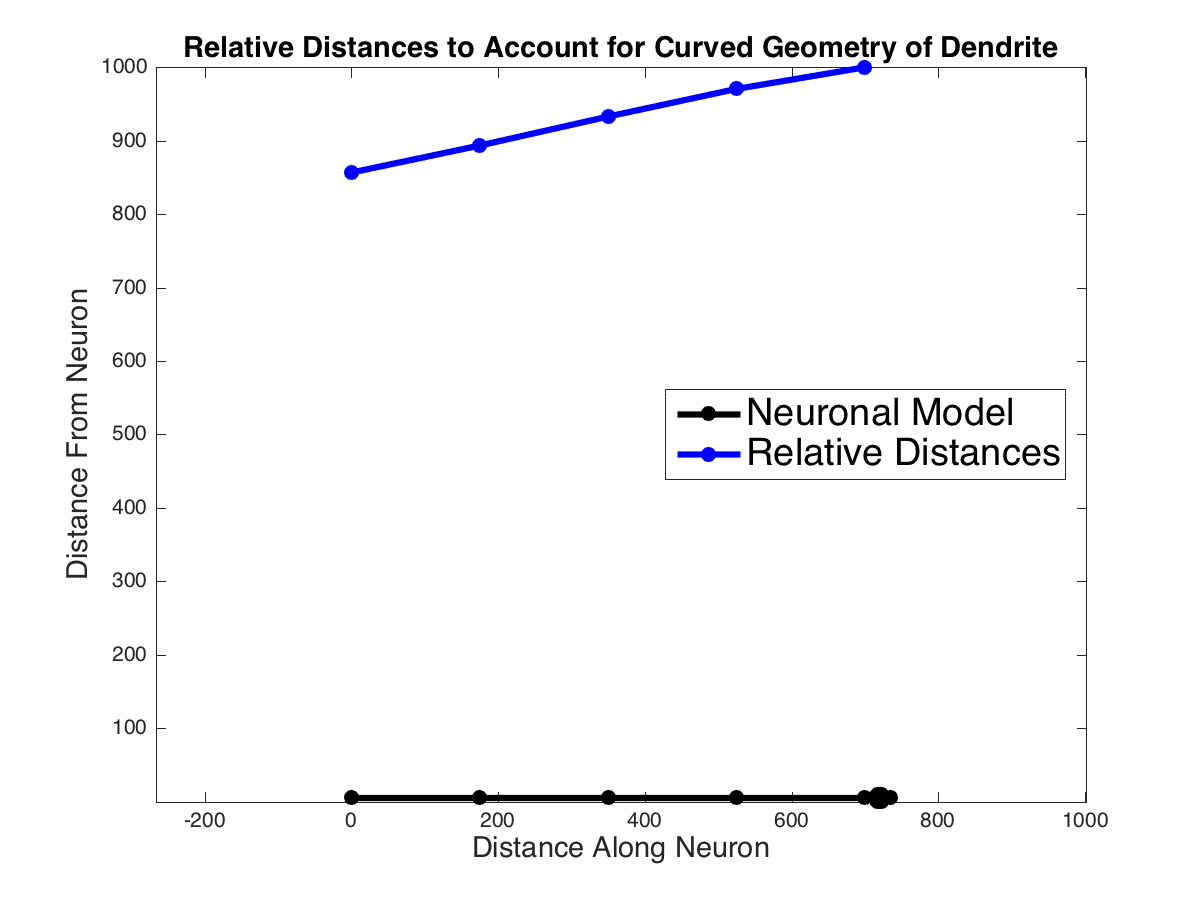
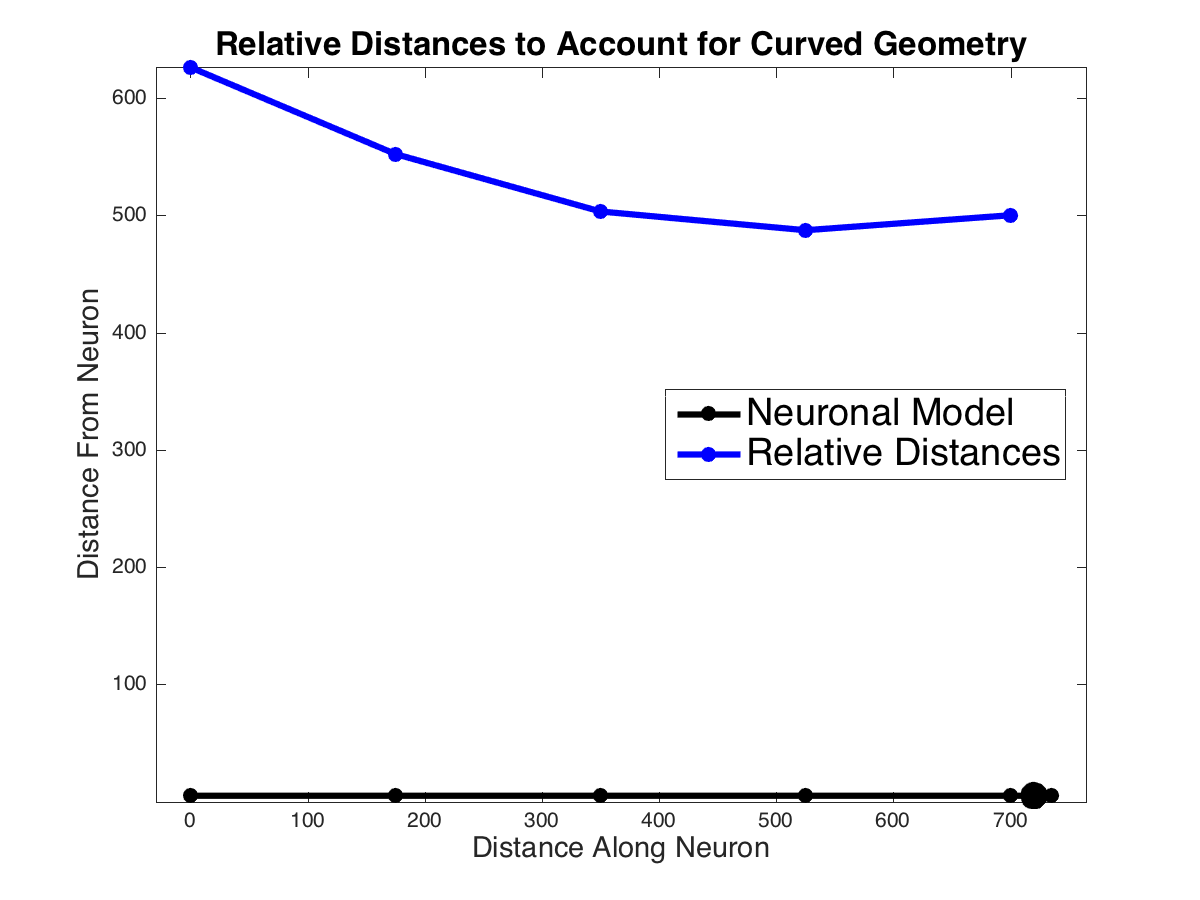
Code at time of submission

diff --git a/plots.m b/plots.m
@@ -1,10 +1,9 @@
-%% Matlab plots for threshold data
+%% MATLAB plots for threshold data
 % Authors: Lauren Heckelman, Matthew McCann, and Michelle Mueller
 
 %% initialize workspace
 clear; clc; clf; close all;
 num_nodes = 27;
-
 
 %% Relative Distances
     % Draw Soma and Dendrite:
@@ -15,106 +14,132 @@ num_nodes = 27;
     SomaINL = 50;
     SomaLeftAndRight = abs(SomaINL - SomaDiameter)/2;
     
-    Dendrite_xvalues = 0:DendriteLength:(DendriteLength*(DendriteNodes - 1));
+    Dendrite_xvalues = 0:DendriteLength:(DendriteLength*(DendriteNodes ...
+                       - 1));
     Dendrite_yvalues = (SomaDiameter/2).*ones(1, length(Dendrite_xvalues));
     
     SomaCircle_ang = 0:0.01:2*pi+0.01;
     SomaCircle_xp = (SomaDiameter/2)*cos(SomaCircle_ang);
     SomaCircle_yp = (SomaDiameter/2)*sin(SomaCircle_ang);
     
-    SomaCircle_xvalues = max(Dendrite_xvalues) + SomaLeftAndRight + SomaCircle_xp;
+    SomaCircle_xvalues = max(Dendrite_xvalues) + SomaLeftAndRight + ...
+                         SomaCircle_xp;
     SomaCircle_yvalues = (SomaDiameter/2) + SomaCircle_yp;
     
     SomaINL_xvaluesLeft = [max(Dendrite_xvalues), min(SomaCircle_xvalues)];
-    SomaINL_xvaluesRight = [max(SomaCircle_xvalues), max(SomaCircle_xvalues + SomaDiameter)];
-    SomaINL_yvaluesLeft = (SomaDiameter/2).*ones(1, length(SomaINL_xvaluesLeft));
-    SomaINL_yvaluesRight = (SomaDiameter/2).*ones(1, length(SomaINL_xvaluesRight));
+    SomaINL_xvaluesRight = [max(SomaCircle_xvalues), ...
+                            max(SomaCircle_xvalues + SomaDiameter)];
+    SomaINL_yvaluesLeft = (SomaDiameter/2).*ones(1, ...
+                           length(SomaINL_xvaluesLeft));
+    SomaINL_yvaluesRight = (SomaDiameter/2).*ones(1, ...
+                            length(SomaINL_xvaluesRight));
     
     Model_xvalues = horzcat(Dendrite_xvalues, SomaINL_xvaluesLeft, ...
                     SomaCircle_xvalues, SomaINL_xvaluesRight);
     Model_yvalues = horzcat(Dendrite_yvalues, SomaINL_yvaluesLeft, ...
                     SomaCircle_yvalues, SomaINL_yvaluesRight);
-
+                
     % Draw Distance to Electrode Curve:
-        angle = 15;
-        DistanceToElectrode = 1000; % [um]
-        Distance_xvalues = zeros(1, DendriteNodes);
-        Distance_yvalues = zeros(1, DendriteNodes);
-
-        for n = 1:DendriteNodes
-            if n == 1
-                Distance_xvalues(n) = 0;
-            else
-                Distance_xvalues(n) = Distance_xvalues(n-1) + (DendriteLength*cosd(angle*(DendriteNodes-n)));
-            end
+    angle = 15;
+    DistanceToElectrode = 1000; % [um]
+    Distance_xvalues = zeros(1, DendriteNodes);
+    Distance_yvalues = zeros(1, DendriteNodes);
+    
+    for n = 1:DendriteNodes
+        if n == 1
+            Distance_xvalues(n) = 0;
+        else
+            Distance_xvalues(n) = Distance_xvalues(n-1) + ...
+                (DendriteLength*cosd(angle*(DendriteNodes-n)));
         end
-
-        for n = 1:DendriteNodes
-            if n == 1
-                Distance_yvalues(n) = DendriteLength*(sind(angle*(DendriteNodes-1)) + sind(angle*(DendriteNodes-2)) + sind(angle*(DendriteNodes-3)) + sind(angle*(DendriteNodes-4)) + sind(angle*(DendriteNodes-5)));
-            end
-            if n == 2
-                Distance_yvalues(n) = DendriteLength*(sind(angle*(DendriteNodes-2)) + sind(angle*(DendriteNodes-3)) + sind(angle*(DendriteNodes-4)) + sind(angle*(DendriteNodes-5)));
-            end
-            if n == 3
-                Distance_yvalues(n) = DendriteLength*(sind(angle*(DendriteNodes-3)) + sind(angle*(DendriteNodes-4)) + sind(angle*(DendriteNodes-5)));
-            end
-            if n == 4
-                Distance_yvalues(n) = DendriteLength*(sind(angle*(DendriteNodes-4)) + sind(angle*(DendriteNodes-5)));
-            end
-            if n == 5
-                Distance_yvalues(n) = DendriteLength*(sind(angle*(DendriteNodes-5)));
-            end
+    end
+    
+    for n = 1:DendriteNodes
+        if n == 1
+            Distance_yvalues(n) = DendriteLength*(sind(angle*...
+                (DendriteNodes-1)) + sind(angle*(DendriteNodes-2)) ...
+                + sind(angle*(DendriteNodes-3)) + sind(angle*...
+                (DendriteNodes-4)) + sind(angle*(DendriteNodes-5)));
         end
-
-        RelativeDistances_xvalues = Dendrite_xvalues;
-        RelativeDistances_yvalues = zeros(1, length(RelativeDistances_xvalues));
-        for n = 1:length(RelativeDistances_yvalues)
-            RelativeDistances_yvalues(n) = sqrt((Distance_xvalues(n) - Distance_xvalues(end))^2 + (DistanceToElectrode - Distance_yvalues(n))^2);
+        if n == 2
+            Distance_yvalues(n) = DendriteLength*(sind(angle*...
+                (DendriteNodes-2)) + sind(angle*(DendriteNodes-3)) ...
+                + sind(angle*(DendriteNodes-4)) + sind(angle*...
+                (DendriteNodes-5)));
         end
-
-        figure();
-        plot(Model_xvalues, Model_yvalues, 'k.-', 'MarkerSize', 25, ...
-             'LineWidth', 3);
-        hold on
-        plot(RelativeDistances_xvalues, RelativeDistances_yvalues, 'b.-', ...
-             'MarkerSize', 25, 'LineWidth', 3);
-        hold off
-        axis equal
-        xlabel('Distance Along Neuron', 'FontSize', 14);
-        ylabel('Distance From Neuron', 'FontSize', 14);
-        title('Relative Distances to Account for Curved Geometry of Dendrite', ...
-              'FontSize', 14);
-        LEGEND = legend('Neuronal Model', 'Relative Distances');
-        set(LEGEND, 'FontSize', 18', 'Location', 'East');
-        print('RelativeDistanceAtCurvedDendrite', '-dpng');
+        if n == 3
+            Distance_yvalues(n) = DendriteLength*(sind(angle*...
+                (DendriteNodes-3)) + sind(angle*(DendriteNodes-4)) ...
+                + sind(angle*(DendriteNodes-5)));
+        end
+        if n == 4
+            Distance_yvalues(n) = DendriteLength*(sind(angle*...
+                (DendriteNodes-4)) + sind(angle*(DendriteNodes-5)));
+        end
+        if n == 5
+            Distance_yvalues(n) = DendriteLength*(sind(angle*...
+                (DendriteNodes-5)));
+        end
+    end
+    
+    RelativeDistances_xvalues = Dendrite_xvalues;
+    RelativeDistances_yvalues = zeros(1, length(RelativeDistances_xvalues));
+    for n = 1:length(RelativeDistances_yvalues)
+        RelativeDistances_yvalues(n) = sqrt((Distance_xvalues(n) - ...
+            Distance_xvalues(end))^2 + (DistanceToElectrode - ...
+            Distance_yvalues(n))^2);
+    end
+ 
+    figure(1); clf;
+    plot(Model_xvalues, Model_yvalues, 'k.-', 'MarkerSize', 25, ...
+         'LineWidth', 3);
+    hold on
+    plot(RelativeDistances_xvalues, RelativeDistances_yvalues, 'b.-', ...
+         'MarkerSize', 25, 'LineWidth', 3);
+    hold off
+    xlabel('Distance Along Neuron', 'FontSize', 14);
+    ylabel('Distance From Neuron', 'FontSize', 14);
+    title('Relative Distances to Account for Curved Geometry', ...
+          'FontSize', 14);
+    text(100,950,'Relative Distances', 'FontSize', 18);
+    text(250, 12, 'Neuronal Model', 'FontSize', 18);
+    LEGEND = legend('Neuronal Model', 'Relative Distances');
+    set(LEGEND, 'FontSize', 18', 'Location', 'East');
+    %breakyaxis([20 840]);
+    print('Fig1_RelativeDistanceAtCurvedDendrite', '-dpng');
             
 %% Unmodified Fiber (with bend)
 node = 0:num_nodes-1;
-thresh_bend = [-10.05, -9.5, -8.6, -7.55, -6.5, -6.4, -6.25, -5.4, -4.95, -4.7, -4.65, -4.6, -4.6, -4.6, -4.6, -4.6, -4.6, -4.6, -4.6, -4.6, -4.6, -4.6, -4.65, -4.75, -4.95, -5.15, -4.95];   %% nA
+thresh_bend = [-10.05, -9.5, -8.6, -7.55, -6.5, -6.4, -6.25, -5.4, ...
+               -4.95, -4.7, -4.65, -4.6, -4.6, -4.6, -4.6, -4.6, -4.6, ...
+               -4.6, -4.6, -4.6, -4.6, -4.6, -4.65, -4.75, -4.95, ...
+               -5.15, -4.95]; %% nA
 
 %% Unmodified Fiber (without bend)
-thresh_no_bend = [-10.25, -9.35, -8.55, -7.5, -6.45, -6.35, -6.25, -5.4, -5.4, -4.7, -4.7, -4.65, -4.6, -4.6, -4.6, -4.6, -4.6, -4.6, -4.6, -4.6, -4.6, -4.6, -4.65, -4.75, -4.95, -5.15, -4.95];
-figure()
+thresh_no_bend = [-10.25, -9.35, -8.55, -7.5, -6.45, -6.35, -6.25, ...
+                  -5.4, -5.4, -4.7, -4.7, -4.65, -4.6, -4.6, -4.6, ...
+                  -4.6, -4.6, -4.6, -4.6, -4.6, -4.6, -4.6, -4.65, ...
+                  -4.75, -4.95, -5.15, -4.95];
+figure(2); clf;
 plot(node,abs(thresh_bend),'bs-','LineWidth',2)
 hold on
 plot(node, abs(thresh_no_bend),'ro-','LineWidth',2)
 hold off
 
-title('Current threshold vs. stimulation node for human SGC','FontSize',14)
+title('Current Threshold vs. Stimulation Node for Human SGC','FontSize',14)
 xlabel('Node Number','FontSize',14)
 ylabel('Stimulation Threshold (nA)','FontSize',14)
 legend('Bent Dendrite', 'Straight Dendrite')
-print('Straight_and_Curved', '-dpng');
+print('Fig2_Straight_and_Curved', '-dpng');
 
 %% Degraded Fiber
 
-data=[-1.3	-6.6	-1.1	-4.3	-0.8	-1.4	-0.8	-1	-2.8
--1.6	-5.8	-1.2	-3.7	-0.8	-1.2	-0.8	-1	-2.6
--2.7	-4.3	-1.9	-2.9	-0.9	-1.1	-0.8	-0.9	-2.4
--2.8	-4.2	-2	-2.9	-0.9	-1	-0.8	-0.9	-2.4
--3.1	-3.1	-2.2	-2.2	-2.3	-0.9	-2	-1.7	-1.4
--3.4	-3.4	-2.4	-2.4	-4.1	-0.9	-3.5	-3.2	-0.7];
+data=[-1.3	-6.6	-1.1	-4.3	-0.8	-1.4	-0.8	-1      -2.8
+      -1.6	-5.8	-1.2	-3.7	-0.8	-1.2	-0.8	-1      -2.6
+      -2.7	-4.3	-1.9	-2.9	-0.9	-1.1	-0.8	-0.9	-2.4
+      -2.8	-4.2	-2      -2.9	-0.9	-1      -0.8	-0.9	-2.4
+      -3.1	-3.1	-2.2	-2.2	-2.3	-0.9	-2      -1.7	-1.4
+      -3.4	-3.4	-2.4	-2.4	-4.1	-0.9	-3.5	-3.2	-0.7];
 
 d005=data(:,1);
 a005=data(:,2);
@@ -123,52 +148,146 @@ a01=data(:,4);
 d05=data(:,5);
 a05=data(:,6);
 d1=data(:,7);
-a1=data(:,8);
-a1b=data(:,9);
+a1=[-1; -1; -.9; -.9; -.7; -.7];%data(:,8);
+%a1b=data(:,9);
 
 n=[0; 2; 5; 6; 16; 26];
 
-figure()
-plot(n,abs(d005),'k',n,abs(a005),'k--',n,abs(d01),'b',n,abs(a01),'b--',n,abs(d05),'g',n,abs(a05),'g--',n,abs(d1),'r',n,abs(a1),'r--',n,abs(a1b),'r-.')
+figure(3); clf;
+plot(n,abs(d005),'k.-', 'LineWidth', 2, 'MarkerSize', 25);
+hold on
+plot(n,abs(a005),'k.--', 'LineWidth', 2, 'MarkerSize', 25);
+plot(n,abs(d01),'b.-','LineWidth', 2, 'MarkerSize', 25);
+plot(n,abs(a01),'b.--', 'LineWidth', 2, 'MarkerSize', 25);
+plot(n,abs(d05),'g.-', 'LineWidth', 2, 'MarkerSize', 25);
+plot(n,abs(a05),'g.--', 'LineWidth', 2, 'MarkerSize', 25);
+plot(n,abs(d1),'r.-', 'LineWidth', 2, 'MarkerSize', 25);
+plot(n,abs(a1),'r.--', 'LineWidth', 2, 'MarkerSize', 25); 
+hold off
 xlabel('Stimulation Node','FontSize',14)
 ylabel('Threshold Stimulus (nA)','FontSize',14)
-legend('Conductance=0.005, Dendrite', 'Conductance=0.005, Axon', 'Conductance=0.01, Dendrite','Conductance=0.01, Axon',...
-    'Conductance=0.05, Dendrite','Conductance=0.05, Axon','Conductance=0.1, Dendrite','Conductance=0.1, Axon Node 0','Conductance=0.1, Axon Node 20')
+title('Threshold vs. Stimulation Node for Varying Conductances',...
+      'FontSize',14)
+legend('Conductance=0.005, Dendrite', 'Conductance=0.005, Axon', ...
+       'Conductance=0.01, Dendrite','Conductance=0.01, Axon',...
+       'Conductance=0.05, Dendrite','Conductance=0.05, Axon', ...
+       'Conductance=0.1, Dendrite','Conductance=0.1, Axon')
+print('Fig3_Conductance', '-dpng');
 
-figure()
-d=[0.001	0.002	0.005	0.01	0.02	0.05	0.1	0.2
--4.1	-3.7	-2.8	-2	-1.3	-0.8	-0.6	-0.5
--4.1	-3.7	-2.8	-2	-1.3	-0.9	-0.8	nan
--6.3	-5.7	-4.2	-2.9	-1.8	-1.1	-0.8	-0.7
--6.3	-5.7	-4.2	-2.9	-1.8	-1.1	-0.8	-0.7
--6.3	-5.7	-4.2	-2.9	-1.8	-1.7	-1.5	nan
--6.3	-5.7	-4.2	-2.9	-1.8	-1	-2.4	nan];
+figure(4); clf;
+d=[0.001	0.002	0.005	0.01	0.02	0.05	0.1     0.2
+   -4.1     -3.7	-2.8	-2      -1.3	-0.8	-0.6	-0.5
+   -4.1     -3.7	-2.8	-2      -1.3	-0.9	-0.8	nan
+   -6.3     -5.7	-4.2	-2.9	-1.8	-1.1	-0.8	-0.7
+   -6.3     -5.7	-4.2	-2.9	-1.8	-1.1	-0.8	-0.7
+   -6.3     -5.7	-4.2	-2.9	-1.8	-1.7	-1.5	nan
+   -6.3     -5.7	-4.2	-2.9	-1.8	-1      -2.4	nan];
 c=d(1,:);
-semilogx(c,d(2,:),c,d(3,:),c,d(4,:),c,d(5,:),c,d(6,:),c,d(7,:))
-xlabel('Conductance','FontSize',14)
-ylabel('Threshold','FontSize',14)
-title('Semilog Plot of Threshold vs. Conductance for Stimulus at First Axon Node','FontSize',14)
+semilogx(c,d(2,:), 'k.-', 'LineWidth', 2, 'MarkerSize', 25);
+hold on
+semilogx(c,d(3,:), 'b.-', 'LineWidth', 2, 'MarkerSize', 25);
+semilogx(c,d(4,:), 'g.-', 'LineWidth', 2, 'MarkerSize', 25);
+semilogx(c,d(5,:), 'r.--', 'LineWidth', 2, 'MarkerSize', 25);
+semilogx(c,d(6,:), 'm.-', 'LineWidth', 2, 'MarkerSize', 25);
+semilogx(c,d(7,:), 'c.--', 'LineWidth', 2, 'MarkerSize', 25);
+hold off
+xlabel('Conductance (S/cm^2)','FontSize',14);
+ylabel('Threshold Stimulus (nA)','FontSize',14);
+title('Semilog Plot of Threshold vs. Conductance for Stimulus at First Axon Node',...
+      'FontSize',14)
 legend('dend[0]', 'dend[2]', 'soma[0]', 'axon[0]', 'axon[10]', 'axon[20]')
-
+print('Fig4_SemiLog_Conductance', '-dpng');
 
 %% Fiber missing dendrite 
+% Conductance = 0.001
 no_dend_node = 0:num_nodes-5-1;
 
-soma_no_dend = [-6.4, -6.3, -5.5, -5, -4.8, -4.7, -4.6, -4.6, -4.6, -4.6, -4.6, -4.6, -4.6, -4.6, -4.6, -4.6, -4.6, -4.7, -4.8, -5, -5.2, -5];
-ax0_no_dend = [-6.4, -6.3, -5.5, -5, -4.8, -4.7, -4.6, -4.6, -4.6, -4.6, -4.6, -4.6, -4.6, -4.6, -4.6, -4.6, -4.6, -4.7, -4.8, -5, -5.2, -5];
-ax10_no_dend = [-6.4, -6.3, -5.5, -5, -4.8, -4.7, -4.6, -4.6, -4.6, -4.6, -4.6, -4.6, -4.6, -4.6, -4.6, -4.6, -4.6, -4.7, -4.8, -5, -5.2, -5];
-ax20_no_dend = [-6.4, -6.3, -5.5, -5, -4.8, -4.7, -4.6, -4.6, -4.6, -4.6, -4.6, -4.6, -4.6, -4.6, -4.6, -4.6, -4.6, -4.7, -4.8, -5, -5.2, -5];
+soma_no_dend = [-6.4, -6.3, -5.5, -5, -4.8, -4.7, -4.6, -4.6, -4.6, ...
+                -4.6, -4.6, -4.6, -4.6, -4.6, -4.6, -4.6, -4.6, -4.7, ...
+                -4.8, -5, -5.2, -5];
+ax0_no_dend = [-6.4, -6.3, -5.5, -5, -4.8, -4.7, -4.6, -4.6, -4.6, ...
+               -4.6, -4.6, -4.6, -4.6, -4.6, -4.6, -4.6, -4.6, -4.7, ...
+               -4.8, -5, -5.2, -5];
+ax10_no_dend = [-6.4, -6.3, -5.5, -5, -4.8, -4.7, -4.6, -4.6, -4.6, ...
+                -4.6, -4.6, -4.6, -4.6, -4.6, -4.6, -4.6, -4.6, -4.7, ...
+                -4.8, -5, -5.2, -5];
+ax20_no_dend = [-6.4, -6.3, -5.5, -5, -4.8, -4.7, -4.6, -4.6, -4.6, ...
+                -4.6, -4.6, -4.6, -4.6, -4.6, -4.6, -4.6, -4.6, -4.7, ...
+                -4.8, -5, -5.2, -5];
 
-figure()
-plot(no_dend_node,abs(soma_no_dend),'bs-','LineWidth',1)
+figure(5); clf;
+plot(no_dend_node,abs(soma_no_dend),'bs-','LineWidth',2)
 hold on
-plot(no_dend_node, abs(ax0_no_dend),'ro-','LineWidth',1)
-plot(no_dend_node, abs(ax10_no_dend),'g+-','LineWidth',1)
-plot(no_dend_node, abs(ax20_no_dend),'k*-','LineWidth',1)
+plot(no_dend_node, abs(ax0_no_dend),'ro-','LineWidth',2)
+plot(no_dend_node, abs(ax10_no_dend),'g+-','LineWidth',2)
+plot(no_dend_node, abs(ax20_no_dend),'k*-','LineWidth',2)
 hold off
 
-title('Current threshold vs. stimulation node for SGC without dendrite','FontSize',14)
+title('Current Threshold vs. Stimulation Node for SGC without Dendrite',...
+      'FontSize',14)
 xlabel('Node Number','FontSize',14)
 ylabel('Stimulation Threshold (nA)','FontSize',14)
 legend('Soma', 'Axon[0]', 'Axon[10]', 'Axon[20]')
-print('NoDend', '-dpng');
+print('Fig5_NoDend', '-dpng');
+
+% Variable Conductance:
+nodend_nodes = [0 1 6 11 16 21];
+
+% Conductance = 0.005
+    soma_nodend_0_005 = [-4.3   -4.3    -3.1    -3.1    -3.1    -3.3];
+    ax0_nodend_0_005  = [-4.3   -4.3    -3.1    -3.1    -3.1    -3.3];
+    ax10_nodend_0_005 = [-4.3   -4.3    -3.1    -3.1    -3.1    -3.3];
+    ax20_nodend_0_005 = [-4.3   -4.3    -3.1    -3.1    -3.1    -3.3];
+
+% Conductance = 0.01
+    soma_nodend_0_01 = [-2.9    -2.9    -2.2    -2.2    -2.2    -2.3];
+    ax0_nodend_0_01  = [-2.9    -2.9    -2.2    -2.2    -2.2    -2.3];
+    ax10_nodend_0_01 = [-2.9    -2.9    -2.2    -2.2    -2.2    -2.3];
+    ax20_nodend_0_01 = [-2.9    -2.9    -2.2    -2.2    -2.2    -2.3];
+
+% Conductance = 0.05
+    soma_nodend_0_05 = [-1.1    -1   -0.9    -0.9    -0.9    -0.9];
+    ax0_nodend_0_05  = [-1.1    -1   -0.9    -0.9    -0.9    -0.9];
+    ax10_nodend_0_05 = [-1.7    -1.7 -1.1    -0.9    -1.1    -1.7];
+    ax20_nodend_0_05 = [-1.1    -1   -0.9    -0.9    -0.9    -0.9];
+
+% Conductance = 0.1
+    soma_nodend_0_1 = [-1   -0.9    -1.1    -1.7    -2.4    -3.1];
+    ax0_nodend_0_1  = [-1   -0.9    -1.1    -1.7    -2.4    -3.1];
+    ax10_nodend_0_1 = [-1.5 -1.5    -1      -1      -1      -1.5];
+    ax20_nodend_0_1 = [-2.4 -2.4    -1.8    -1.2    -0.8    -0.7];
+    
+figure(5); clf;
+plot(nodend_nodes, abs(soma_nodend_0_005),'k.-','LineWidth',2, 'MarkerSize', 25)
+hold on
+plot(nodend_nodes, abs(ax0_nodend_0_005),'k.--','LineWidth',2, 'MarkerSize', 25)
+plot(nodend_nodes, abs(ax10_nodend_0_005),'k.-.','LineWidth',2, 'MarkerSize', 25)
+plot(nodend_nodes, abs(ax20_nodend_0_005),'k.:','LineWidth',2, 'MarkerSize', 25)
+
+plot(nodend_nodes, abs(soma_nodend_0_01),'b.-','LineWidth',2, 'MarkerSize', 25)
+plot(nodend_nodes, abs(ax0_nodend_0_01),'b.--','LineWidth',2, 'MarkerSize', 25)
+plot(nodend_nodes, abs(ax10_nodend_0_01),'b.-.','LineWidth',2, 'MarkerSize', 25)
+plot(nodend_nodes, abs(ax20_nodend_0_01),'b.:','LineWidth',2, 'MarkerSize', 25)
+
+plot(nodend_nodes, abs(soma_nodend_0_05),'r.-','LineWidth',2, 'MarkerSize', 25)
+plot(nodend_nodes, abs(ax0_nodend_0_05),'r.--','LineWidth',2, 'MarkerSize', 25)
+plot(nodend_nodes, abs(ax10_nodend_0_05),'r.-.','LineWidth',2, 'MarkerSize', 25)
+plot(nodend_nodes, abs(ax20_nodend_0_05),'r.:','LineWidth',2, 'MarkerSize', 25)
+
+plot(nodend_nodes, abs(soma_nodend_0_1),'g.-','LineWidth',2, 'MarkerSize', 25)
+plot(nodend_nodes, abs(ax0_nodend_0_1),'g.--','LineWidth',2, 'MarkerSize', 25)
+plot(nodend_nodes, abs(ax10_nodend_0_1),'g.-.','LineWidth',2, 'MarkerSize', 25)
+plot(nodend_nodes, abs(ax20_nodend_0_1),'g.:','LineWidth',2, 'MarkerSize', 25)
+hold off
+
+title({'Current Threshold vs. Stimulation Node for SGC without Dendrite';'with Varying Conductances'},...
+      'FontSize',14);
+xlabel('Node Number','FontSize',14)
+ylabel('Stimulation Threshold (nA)','FontSize',14)
+legend('g = 0.005, Soma', 'g = 0.005, Axon[0]', 'g = 0.005, Axon[10]', ...
+       'g = 0.005, Axon[20]', 'g = 0.01, Soma', 'g = 0.01, Axon[0]', ...
+       'g = 0.01, Axon[10]', 'g = 0.01, Axon[20]', 'g = 0.05, Soma', ...
+       'g = 0.05, Axon[0]', 'g = 0.05, Axon[10]', 'g = 0.05, Axon[20]', ...
+       'g = 0.1, Soma', 'g = 0.1, Axon[0]', 'g = 0.1, Axon[10]', ...
+       'g = 0.1, Axon[20]')
+print('Fig6_NoDend_VaryingConductances', '-dpng');

diff --git a/RelativeDistanceAtCurvedDendrite.m b/RelativeDistanceAtCurvedDendrite.m
@@ -36,7 +36,7 @@
                 
 %% Draw Distance to Electrode Curve:
     angle = 15;
-    DistanceToElectrode = 1000; % [um]
+    DistanceToElectrode = 500; % [um]
     Distance_xvalues = zeros(1, DendriteNodes);
     Distance_yvalues = zeros(1, DendriteNodes);
     
